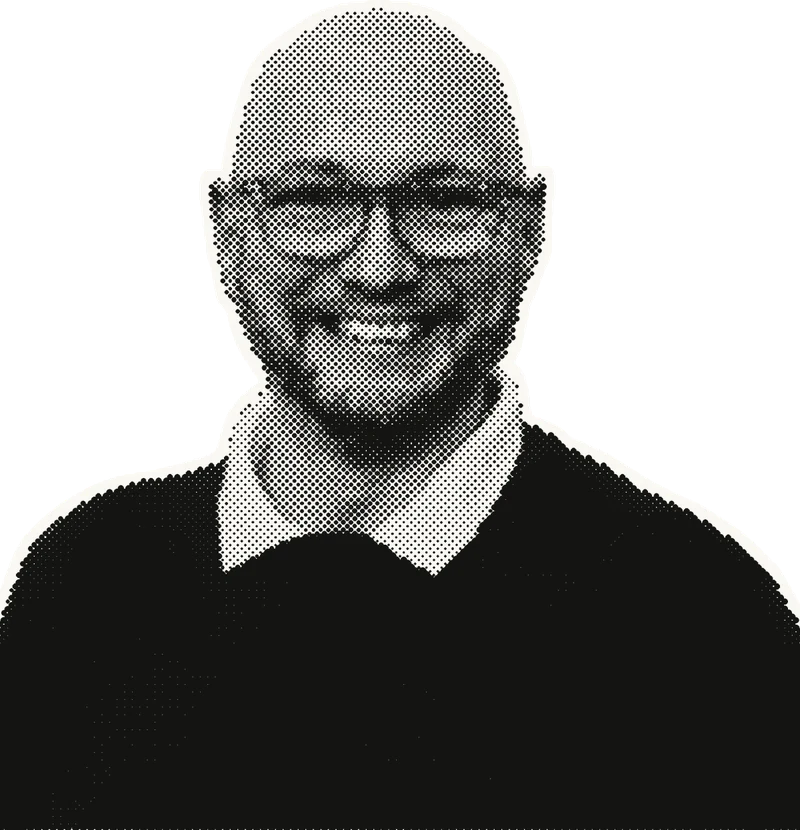
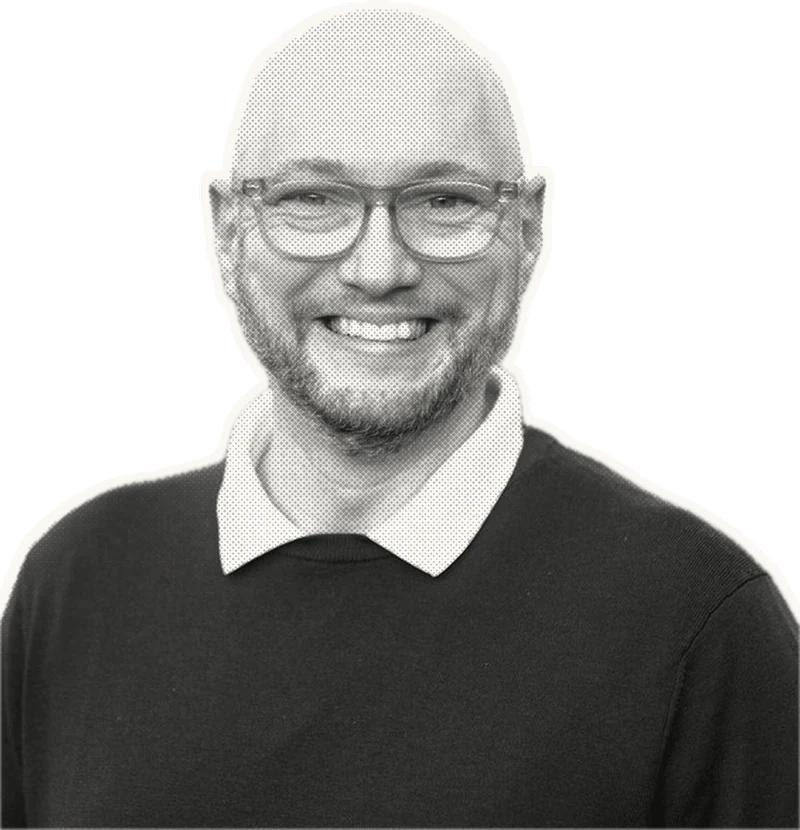
Hero: photo portrait with light dot screen; interactive five-stage ramp
Glasses stay sharp. Steps no longer single out stage 3: an orange ramp from
stage 1 to 5, stage names on hover/focus, each step links to the KI-Check.
Tool card ladder uses the same ramp.

diff --git a/src/styles/global.css b/src/styles/global.css
@@ -784,9 +784,8 @@ main a > span[aria-hidden="true"], .footer-links a > span[aria-hidden="true"] { 
 .tool-ladder { display: grid; grid-template-columns: repeat(5, 1fr); align-items: end; gap: 8px; }
 .tool-ladder span { position: relative; height: calc(var(--n) * 20%); background: rgba(255,253,247,.1); border-top: 2px solid rgba(255,253,247,.35); transform-origin: bottom; transition: transform 900ms cubic-bezier(.2,.7,.2,1), background 400ms ease, border-color 400ms ease; transition-delay: calc(var(--n) * 90ms + 300ms); }
 .tool-ladder span b { position: absolute; left: .5rem; top: .4rem; font-family: var(--mono); font-size: .72rem; font-weight: 400; color: rgba(255,253,247,.6); }
-.tool-ladder span:nth-child(3) { background: var(--signal); border-color: var(--signal); }
-.tool-ladder span:nth-child(3) b { color: var(--ink); }
-.tool-card-dark:hover .tool-ladder span:nth-child(4) { background: rgba(255,97,56,.35); border-color: var(--signal); transition-delay: 0s; }
+.tool-ladder span { background: color-mix(in oklab, var(--signal) calc(var(--n) * 20%), rgba(255,253,247,.08)); border-color: color-mix(in oklab, var(--signal) calc(var(--n) * 20% + 10%), rgba(255,253,247,.35)); }
+.tool-ladder span:nth-child(n+4) b { color: var(--ink); }
 .has-motion .tools-grid:not(.is-visible) .tool-ladder span { transform: scaleY(0); }
 
 /* Bars: the report's key chart in miniature */
@@ -812,16 +811,27 @@ main a > span[aria-hidden="true"], .footer-links a > span[aria-hidden="true"] { 
 .hero-collage { position: relative; margin: 0; align-self: start; aspect-ratio: 4 / 5.2; width: 100%; isolation: isolate; }
 .collage-sun { position: absolute; top: 4%; right: -4%; width: 88%; aspect-ratio: 1; border-radius: 50%; background: var(--signal); z-index: -1; }
 .collage-portrait { position: absolute; left: 4%; bottom: 17%; width: 92%; height: auto; filter: drop-shadow(0 18px 30px rgba(0,0,0,.35)); }
-.collage-steps { position: absolute; left: 0; right: 0; bottom: 12%; height: 22%; margin: 0; padding: 0; list-style: none; display: grid; grid-template-columns: repeat(5, 1fr); align-items: end; gap: 4px; z-index: 2; }
-.collage-steps li { height: calc(var(--n) * 20%); background: var(--paper); border-top: 2px solid var(--paper); color: rgba(17,17,15,.55); font-family: var(--mono); font-size: .62rem; padding: .35rem .45rem; transform-origin: bottom; }
-.collage-steps li:nth-child(3) { background: var(--signal); border-color: var(--signal); color: var(--ink); }
+.collage-steps { position: absolute; left: 0; right: 0; bottom: 12%; height: 22%; z-index: 2; }
+.collage-steps ol { height: 100%; margin: 0; padding: 0; list-style: none; display: grid; grid-template-columns: repeat(5, 1fr); align-items: end; gap: 4px; }
+.collage-steps li { position: relative; height: calc(var(--n) * 20%); transform-origin: bottom; }
+.collage-steps li a { position: absolute; inset: 0; display: block; padding: .35rem .45rem; background: color-mix(in oklab, var(--signal) calc(var(--n) * 20%), var(--paper)); border-top: 2px solid color-mix(in oklab, var(--signal) calc(var(--n) * 20% + 10%), var(--paper)); color: var(--ink); font-family: var(--mono); font-size: .62rem; transition: transform 260ms cubic-bezier(.2,.75,.2,1), box-shadow 260ms ease; }
+.collage-steps li a b { font-weight: 400; opacity: .7; }
+.collage-steps li a:hover, .collage-steps li a:focus-visible { transform: translateY(-8px); box-shadow: 0 12px 22px rgba(0,0,0,.35); }
+.collage-step-name { position: absolute; left: 50%; bottom: calc(100% + 16px); width: max-content; max-width: 11rem; padding: .4rem .6rem; background: var(--white); color: var(--ink); font-family: var(--sans); font-size: .78rem; font-weight: 600; line-height: 1.25; text-align: center; transform: translate(-50%, 6px); opacity: 0; pointer-events: none; box-shadow: 0 8px 18px rgba(0,0,0,.3); transition: opacity 180ms ease, transform 220ms ease; }
+.collage-steps li:first-child .collage-step-name { left: 0; transform: translate(0, 6px); }
+.collage-steps li:last-child .collage-step-name { left: auto; right: 0; transform: translate(0, 6px); }
+.collage-steps li a:hover .collage-step-name, .collage-steps li a:focus-visible .collage-step-name { opacity: 1; transform: translate(-50%, 0); }
+.collage-steps li:first-child a:hover .collage-step-name, .collage-steps li:first-child a:focus-visible .collage-step-name, .collage-steps li:last-child a:hover .collage-step-name, .collage-steps li:last-child a:focus-visible .collage-step-name { transform: none; }
+.collage-steps-label { position: absolute; left: 0; right: 0; top: calc(100% + .6rem); margin: 0; display: flex; justify-content: space-between; gap: 1rem; font-family: var(--mono); font-size: .62rem; letter-spacing: .04em; text-transform: uppercase; color: rgba(255,253,247,.6); }
+.collage-steps-label a { color: var(--signal); }
+.collage-steps-label a:hover { text-decoration: underline; }
 .collage-ticket { position: absolute; top: 30%; left: -14%; z-index: 3; margin: 0; padding: .8rem 1rem .9rem; width: 9.5rem; display: grid; gap: .15rem; background: var(--white); color: var(--ink); transform: rotate(-7deg); box-shadow: 0 14px 28px rgba(0,0,0,.35); border-left: 1px dashed rgba(17,17,15,.35); }
 .collage-ticket::before { content: ''; position: absolute; left: -6px; top: 50%; width: 12px; height: 12px; margin-top: -6px; border-radius: 50%; background: var(--ink); }
 .collage-ticket span { font-family: var(--mono); font-size: .6rem; letter-spacing: .08em; text-transform: uppercase; color: var(--muted); }
 .collage-ticket strong { font-size: 1.15rem; font-weight: 650; letter-spacing: -.02em; }
 .collage-ticket strong::after { content: ' ✓\FE0E'; color: #2f7d4f; }
 .collage-ticket em { font-style: normal; font-family: var(--mono); font-size: .78rem; color: var(--signal); }
-.hero-collage figcaption { position: absolute; left: 0; right: 0; bottom: 0; height: 9%; display: flex; flex-direction: column; justify-content: flex-end; gap: .15rem; }
+.hero-collage figcaption { position: absolute; left: 0; right: 0; bottom: -2.2rem; height: 9%; display: flex; flex-direction: column; justify-content: flex-end; gap: .15rem; }
 .hero-collage figcaption strong { font-size: .92rem; font-weight: 600; }
 .hero-collage figcaption span { font-size: .64rem; line-height: 1.5; color: rgba(255,253,247,.58); }
 

diff --git a/src/aiLeadershipData.ts b/src/aiLeadershipData.ts
@@ -31,6 +31,10 @@ export const aiLeadershipContent = {
       portraitAlt: 'Tobias Treppmann in Berlin',
       portraitMeta: 'Produktleitung · Prozessgestaltung · KI-Einführung',
       ticket: ['KI-Lizenz', 'bezahlt', 'genutzt?'],
+      stepsLabel: 'Fünf Stufen. Wo stehen Sie?',
+      stepsAction: 'Zum KI-Check',
+      stepsHref: 'https://treppmann.de/ki-check/',
+      stages: ['Gekauft', 'Ausprobiert', 'Erste Vorhaben', 'Ein Prozess läuft anders', 'Teil der Arbeitsweise'],
     },
     credentials: {
       label: 'Erfahrung',
@@ -218,6 +222,10 @@ export const aiLeadershipContent = {
       portraitAlt: 'Tobias Treppmann in Berlin',
       portraitMeta: 'Product leadership · Process design · AI adoption',
       ticket: ['AI licence', 'paid', 'used?'],
+      stepsLabel: 'Five stages. Where are you?',
+      stepsAction: 'See the plan',
+      stepsHref: '#plan',
+      stages: ['Bought', 'Tried out', 'First projects', 'One process works differently', 'Part of how we work'],
     },
     credentials: {
       label: 'Experience',
